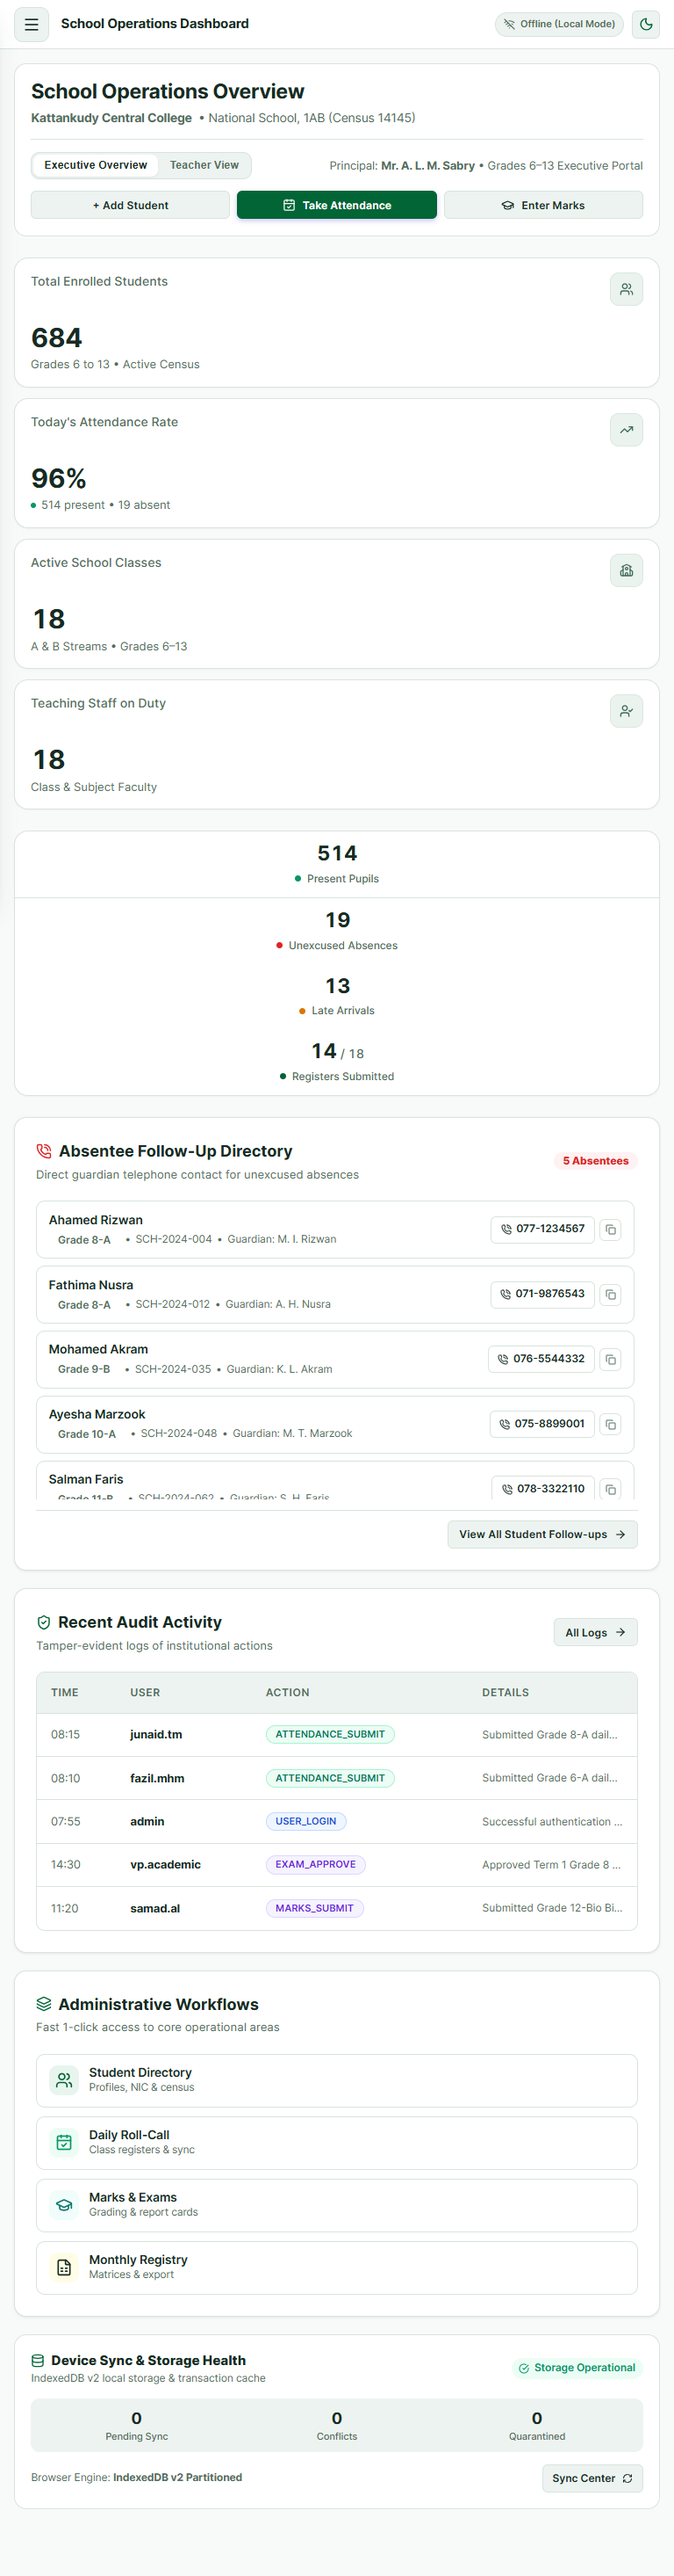
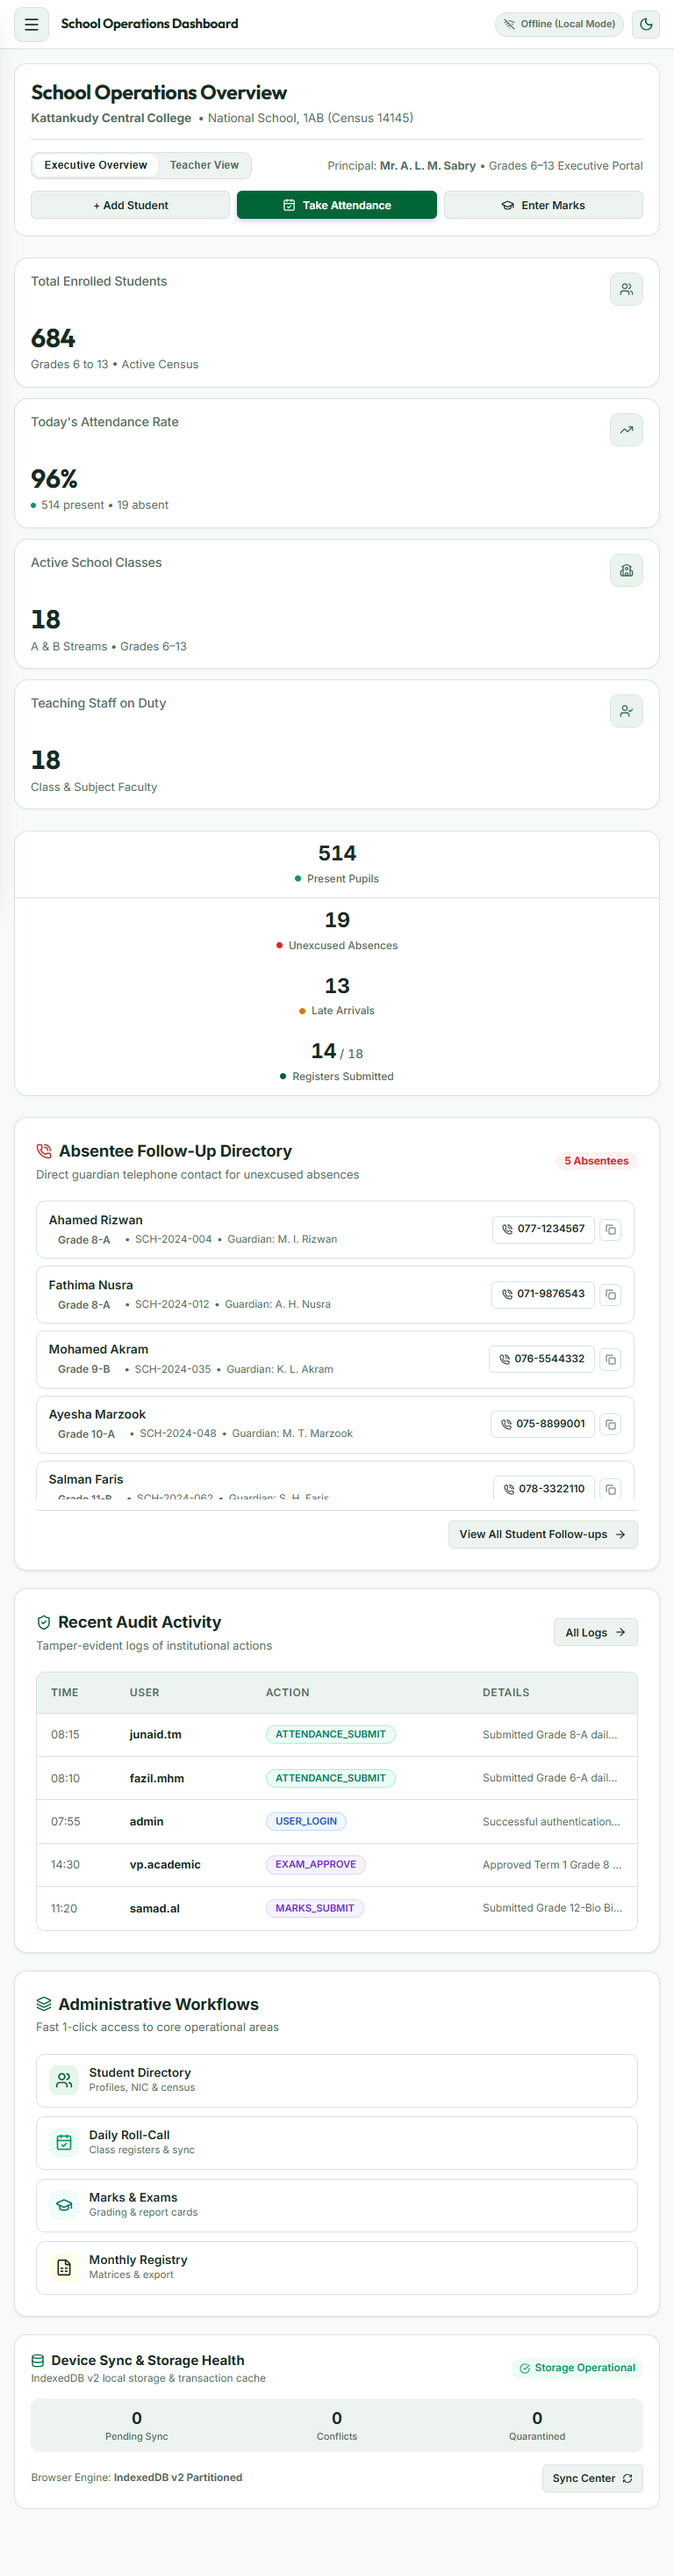
refactor(navbar): remove redundant breadcrumbs trail from dashboard header

diff --git a/client/src/components/Navbar.tsx b/client/src/components/Navbar.tsx
@@ -153,7 +153,7 @@ export const Navbar: React.FC<NavbarProps> = ({
   const isSyncing = (syncSummary?.syncing || 0) > 0;
   const pendingCount = (syncSummary?.pending || 0);
 
-  const getBreadcrumbs = () => {
+  const getBreadcrumbs = (): [string, string] | null => {
     switch (currentTab) {
       case 'students':
         return ['Students', 'Directory & Records'];
@@ -171,7 +171,7 @@ export const Navbar: React.FC<NavbarProps> = ({
         return ['System', 'UI Primitives Preview'];
       case 'dashboard':
       default:
-        return ['Overview', 'School Operations'];
+        return null;
     }
   };
 
@@ -191,21 +191,23 @@ export const Navbar: React.FC<NavbarProps> = ({
         </button>
 
         <div className="navbar-heading-group">
-          {/* Subtle Top Breadcrumb Trail */}
-          <nav aria-label="Breadcrumbs" className="navbar-crumb-trail navbar-brand-crumb">
-            <span
-              className="navbar-crumb-item navbar-crumb-parent"
-              onClick={() => onNavigate?.('dashboard')}
-              style={{ cursor: onNavigate ? 'pointer' : 'default' }}
-              title={SCHOOL_PROFILE.name}
-            >
-              KCC
-            </span>
-            <ChevronRight size={11} className="navbar-crumb-divider navbar-crumb-sep" aria-hidden="true" />
-            <span className="navbar-crumb-item">{crumbs[0]}</span>
-            <ChevronRight size={11} className="navbar-crumb-divider" aria-hidden="true" />
-            <span className="navbar-crumb-current" aria-current="page">{crumbs[1]}</span>
-          </nav>
+          {/* Subtle Top Breadcrumb Trail (omitted on Dashboard for clean minimalist header) */}
+          {crumbs && (
+            <nav aria-label="Breadcrumbs" className="navbar-crumb-trail navbar-brand-crumb">
+              <span
+                className="navbar-crumb-item navbar-crumb-parent"
+                onClick={() => onNavigate?.('dashboard')}
+                style={{ cursor: onNavigate ? 'pointer' : 'default' }}
+                title={SCHOOL_PROFILE.name}
+              >
+                KCC
+              </span>
+              <ChevronRight size={11} className="navbar-crumb-divider navbar-crumb-sep" aria-hidden="true" />
+              <span className="navbar-crumb-item">{crumbs[0]}</span>
+              <ChevronRight size={11} className="navbar-crumb-divider" aria-hidden="true" />
+              <span className="navbar-crumb-current" aria-current="page">{crumbs[1]}</span>
+            </nav>
+          )}
 
           {/* Primary View Title & Academic Context */}
           <div className="navbar-title-row">
